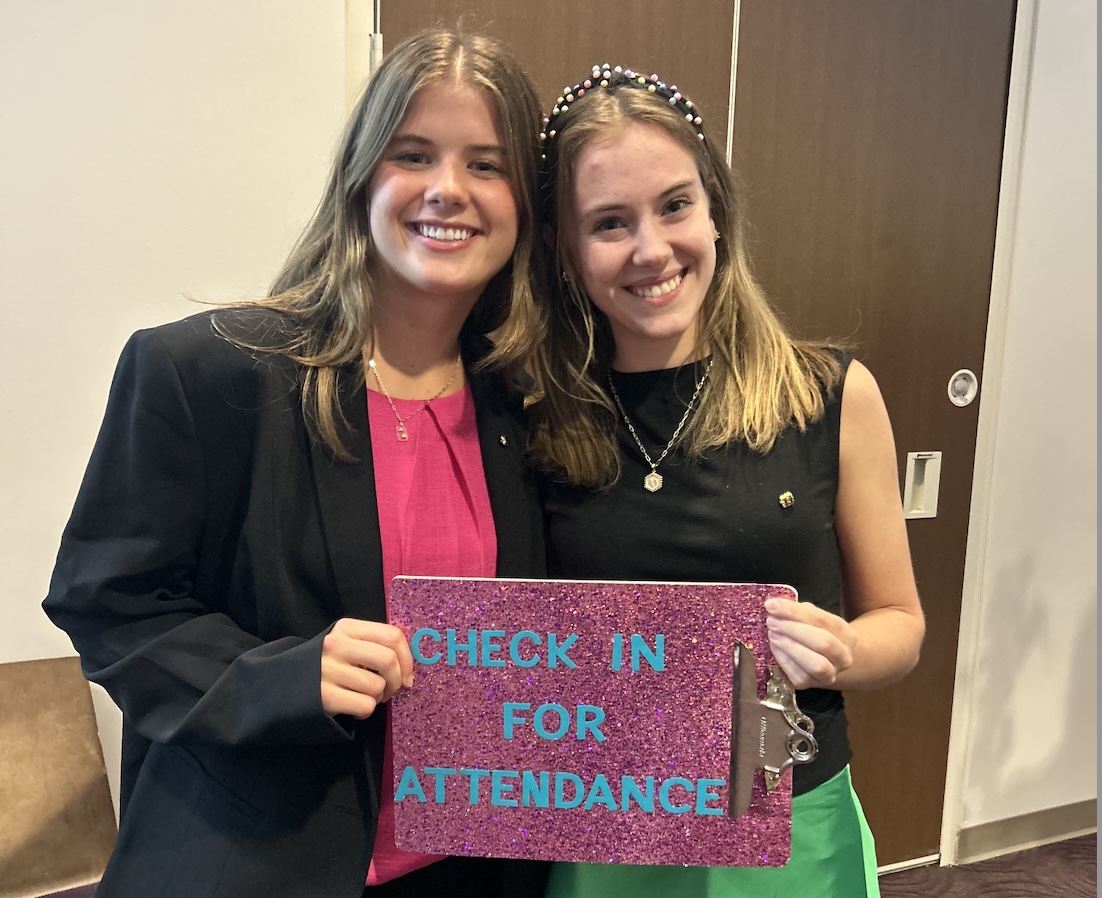
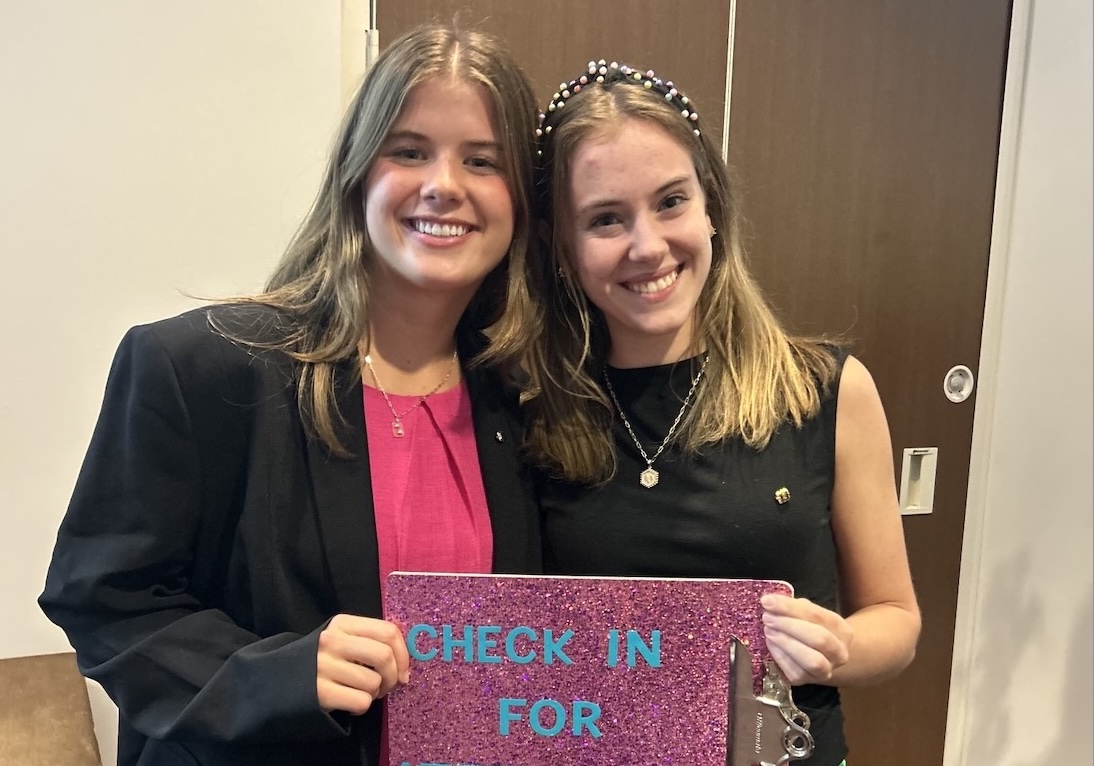
carousel photos
resizing and reframing carousel photos. Adding Alt text for accessibility.

diff --git a/index.html b/index.html
@@ -262,12 +262,12 @@ call data to higher management in Account Takeover and Online Fraud Detection</l
                 </div>
             </div>
             <div class="carousel-slide">
-                <img src="Sandbox/sandbox_css/secretary.jpg" alt="Photo with my sorority assistant.">
+                <img src="Sandbox/sandbox_css/phimu.jpeg" alt="Photo with my sorority assistant.">
                 <div class="carousel-caption">
                 </div>
             </div>
             <div class="carousel-slide">
-                <img src="Sandbox/sandbox_css/kaygrangeroffice.jpg" alt="photo outside the congressional office of Kay Granger">
+                <img src="Sandbox/sandbox_css/sga.jpeg" alt="Ava Valdes being inducted insto the Student Government Association as a representative for the AddRan College of Liberal Arts">
                 <div class="carousel-caption">
                 </div>
             </div>
